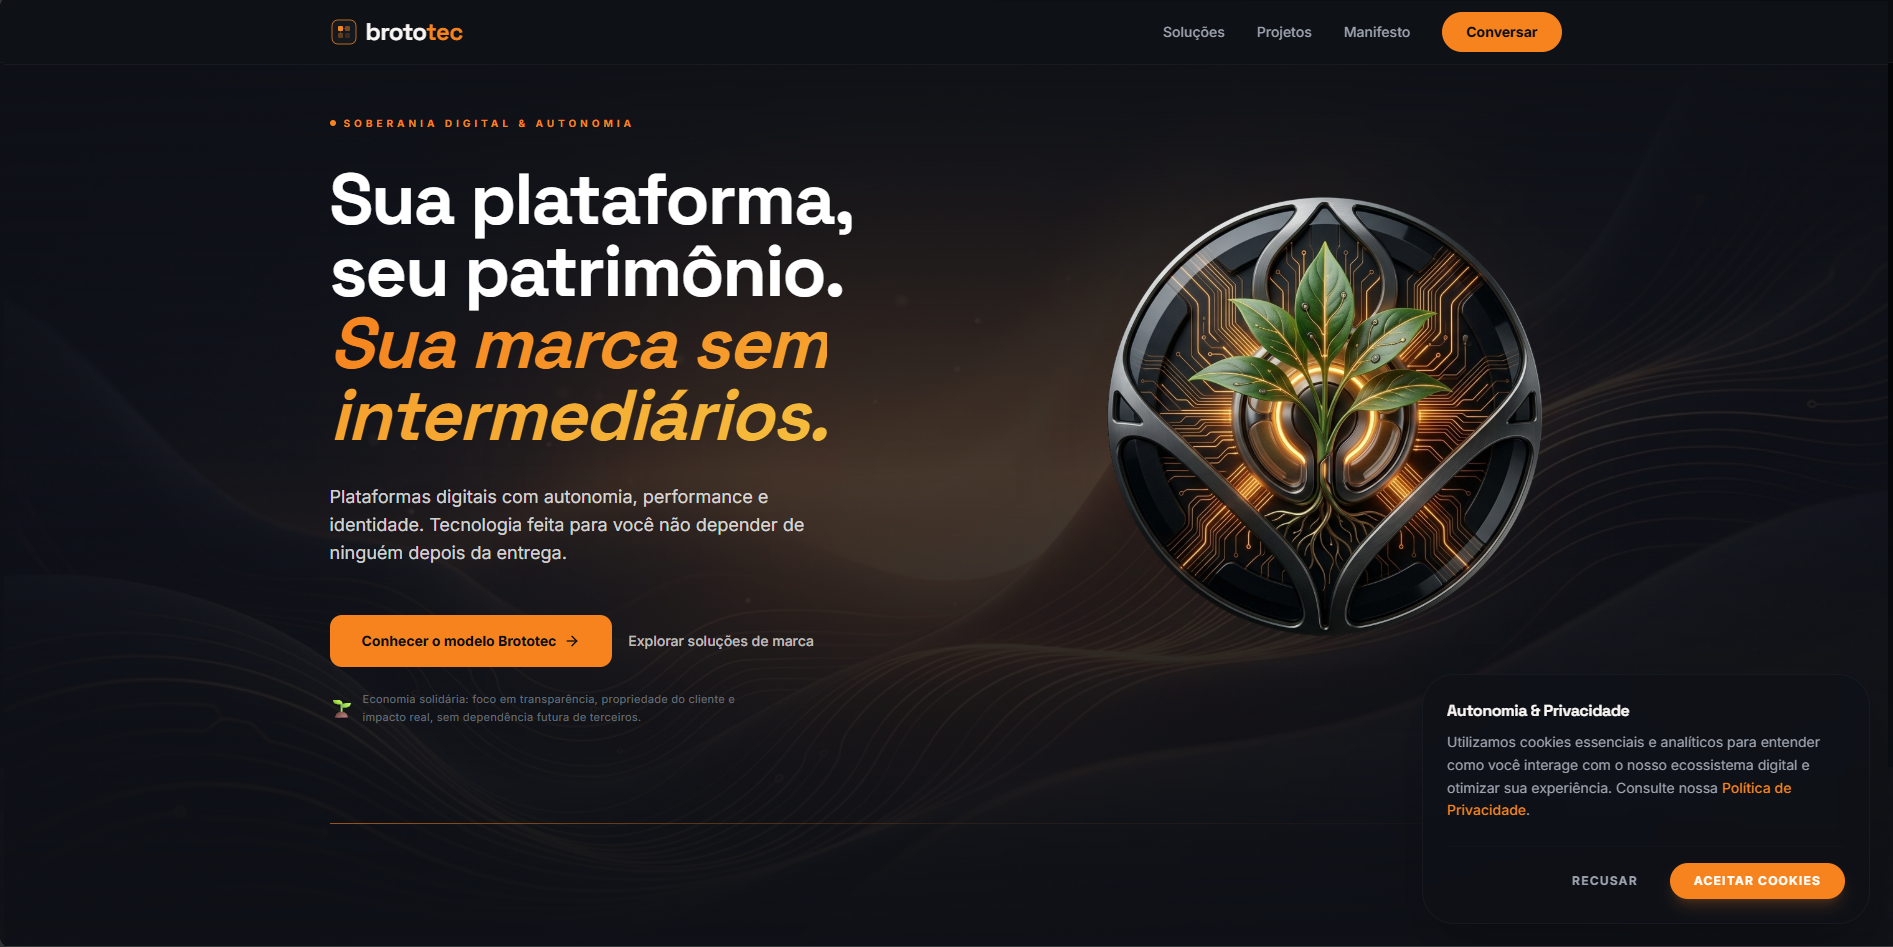
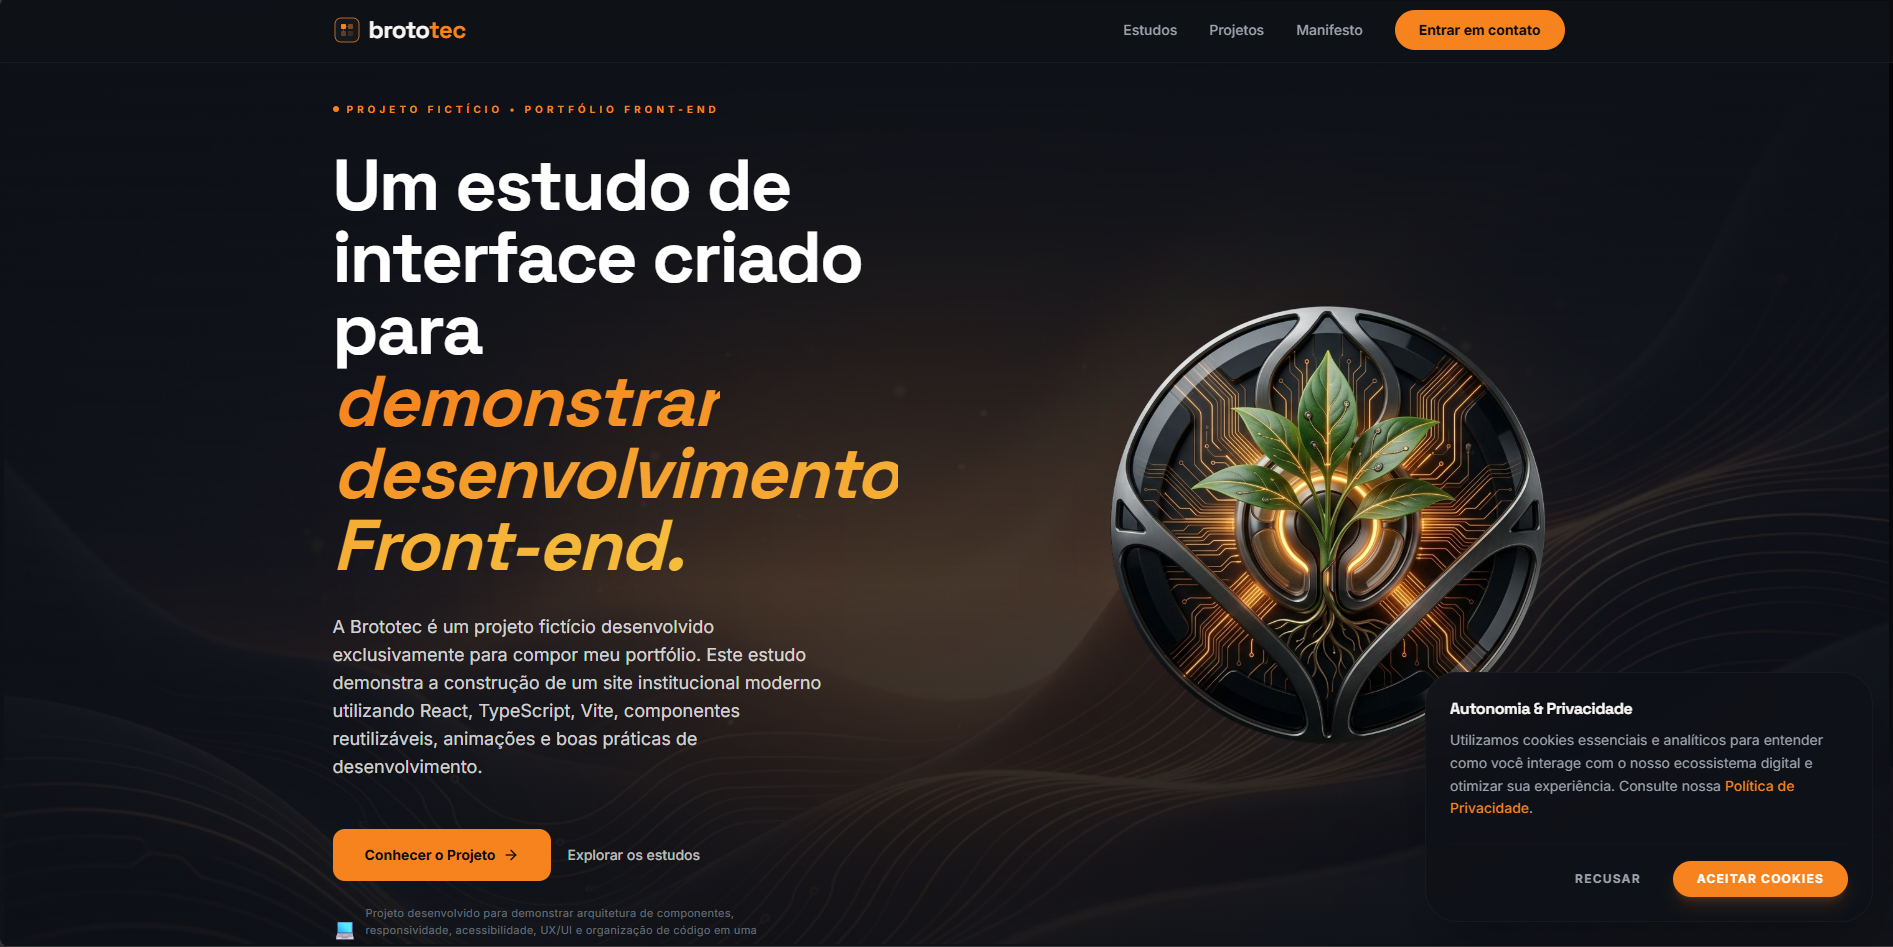
refactor: reposiciona cases do portfólio e atualiza descrições dos projetos

diff --git a/data/projects.ts b/data/projects.ts
@@ -1,6 +1,6 @@
 // Projetos apresentados no portfólio.
-// Cada projeto possui informações resumidas para cards
-// e informações completas utilizadas nas páginas individuais.
+// Estudos, experimentos e aplicações desenvolvidas
+// durante minha trajetória em tecnologia.
 
 export type Project = {
   slug: string;
@@ -71,72 +71,61 @@ export const projects: Project[] = [
       "https://marllon.netlify.app",
   },
   {
-    slug: "brototec",
+  slug: "brototec",
 
-    name: "Brototec",
+  name: "Brototec",
 
-    category: "Conceito de Produto Digital",
+  category: "Projeto Experimental",
 
-    description:
-      "Conceito de plataforma digital desenvolvido para explorar autonomia, propriedade e construção de ativos digitais para pequenos negócios.",
+  description:
+    "Experimento de posicionamento digital e construção de uma identidade visual para explorar conceitos de produto, interface e experiência do usuário.",
 
-    image:
-      "/projects/brototec.png",
+  longDescription:
+    "Projeto experimental criado para estudar como uma marca digital poderia ser estruturada do zero, explorando identidade visual, arquitetura de informação, design de interfaces e desenvolvimento Front-End.",
 
-    longDescription:
-      "A Brototec foi um projeto experimental de posicionamento e construção de uma solução digital própria, explorando como tecnologia poderia ser utilizada para criar estruturas digitais mais independentes, transparentes e personalizadas para negócios.",
+  problem:
+    "Explorar na prática como transformar uma ideia abstrata em uma experiência digital completa, passando por estratégia, design e implementação.",
 
-    problem:
-      "Muitos negócios dependem de plataformas fechadas e soluções terceirizadas onde possuem pouco controle sobre seus dados, estrutura digital e evolução futura.",
+  solution:
+    "Desenvolvimento de uma interface completa utilizando Next.js, criando páginas, componentes reutilizáveis e uma experiência visual focada em clareza e usabilidade.",
 
-    solution:
-      "Foi desenvolvida uma proposta de ecossistema digital baseado em interfaces personalizadas, estruturas de conteúdo gerenciáveis e entrega de ativos digitais próprios, explorando conceitos de autonomia, performance e experiência do usuário.",
+  highlights: [
+    "Criação de identidade e conceito visual",
+    "Arquitetura de páginas e experiência do usuário",
+    "Desenvolvimento Front-End completo",
+    "Componentização utilizando Next.js",
+    "Estudo de posicionamento de produto digital",
+  ],
 
-    highlights: [
-      "Definição de posicionamento e proposta de valor",
-      "Arquitetura completa de informações e páginas",
-      "Criação de identidade visual e experiência digital",
-      "Estruturação de soluções digitais orientadas a negócio",
-      "Desenvolvimento de interface responsiva utilizando Next.js",
-    ],
+  image:
+    "/projects/brototec.png",
 
-    stack: [
-      "Next.js",
-      "TypeScript",
-      "Tailwind CSS",
-      "UX/UI Design",
-      "Vercel",
-    ],
-
-    github:
-      "https://github.com/marllonpanisset/brototec",
-
-    demo:
-      "https://brototec.vercel.app",
+  stack: [
+    "Next.js",
+    "TypeScript",
+    "Tailwind CSS",
+    "UX/UI Design",
+    "Vercel",
+  ],
   },
   {
     slug: "pousada-profissional",
 
     name: "Pousada Profissional",
 
-    category: "Produto Digital",
-
+    category: "Estudo de Produto Digital",
 
     description:
-      "Site modelo para pousadas com apresentação de acomodações, páginas dinâmicas e contato direto via WhatsApp.",
-
+      "Protótipo de plataforma digital para o segmento de hospedagem, desenvolvido para explorar experiência do usuário, páginas dinâmicas e apresentação de serviços.",
 
     longDescription:
-      "Projeto desenvolvido como demonstração de uma solução digital para o segmento de hospedagem, permitindo apresentar acomodações, informações da pousada e facilitar o contato com hóspedes.",
-
+      "Projeto experimental criado para estudar como uma solução digital poderia ser estruturada para pequenos negócios do setor de hospedagem, explorando arquitetura de informação, componentes reutilizáveis e experiência de navegação.",
 
     problem:
-      "Pequenas pousadas muitas vezes dependem exclusivamente de plataformas externas e não possuem um canal próprio profissional para apresentar seus serviços.",
-
+      "Estudar como organizar informações de um negócio real em uma interface digital clara, responsiva e fácil de utilizar.",
 
     solution:
-      "Criação de um site responsivo utilizando páginas dinâmicas, componentes reutilizáveis e integração com WhatsApp para facilitar solicitações de reservas.",
-
+      "Construção de um protótipo utilizando Next.js com páginas dinâmicas, componentes reutilizáveis e estrutura preparada para diferentes conteúdos.",
 
     highlights: [
       "Rotas dinâmicas utilizando Next.js",